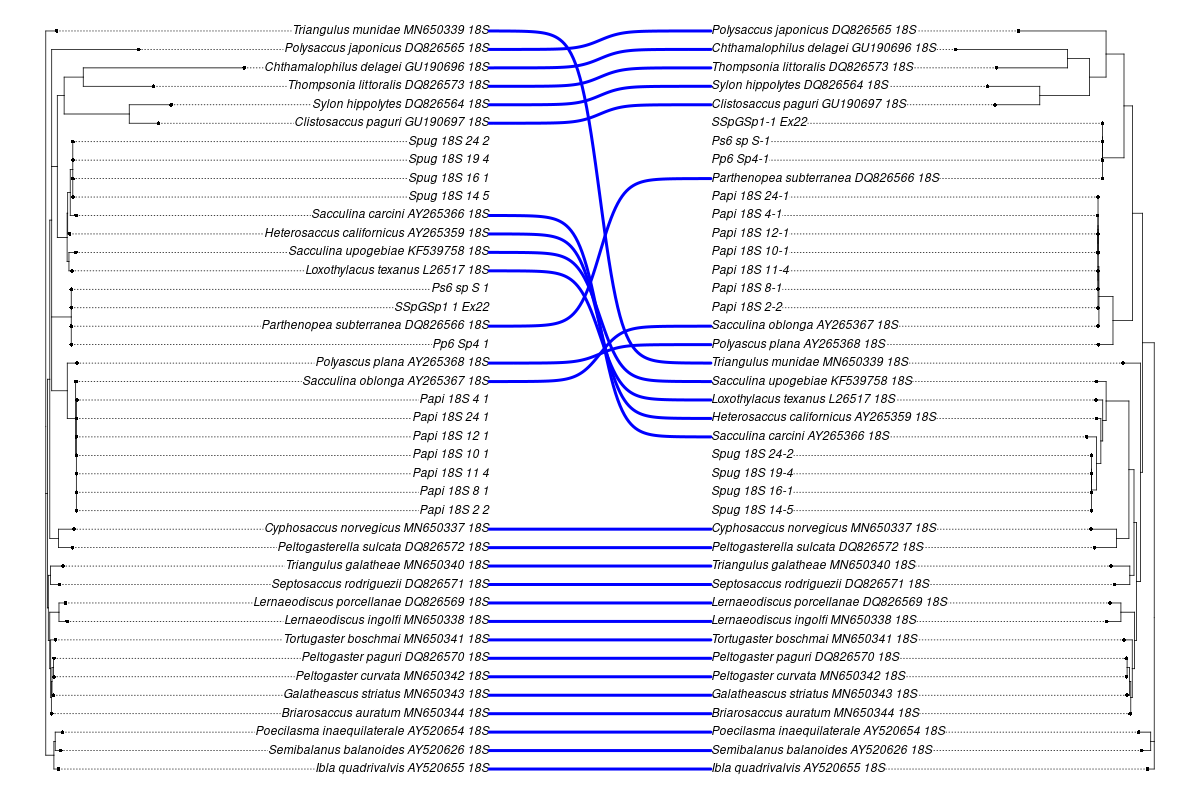
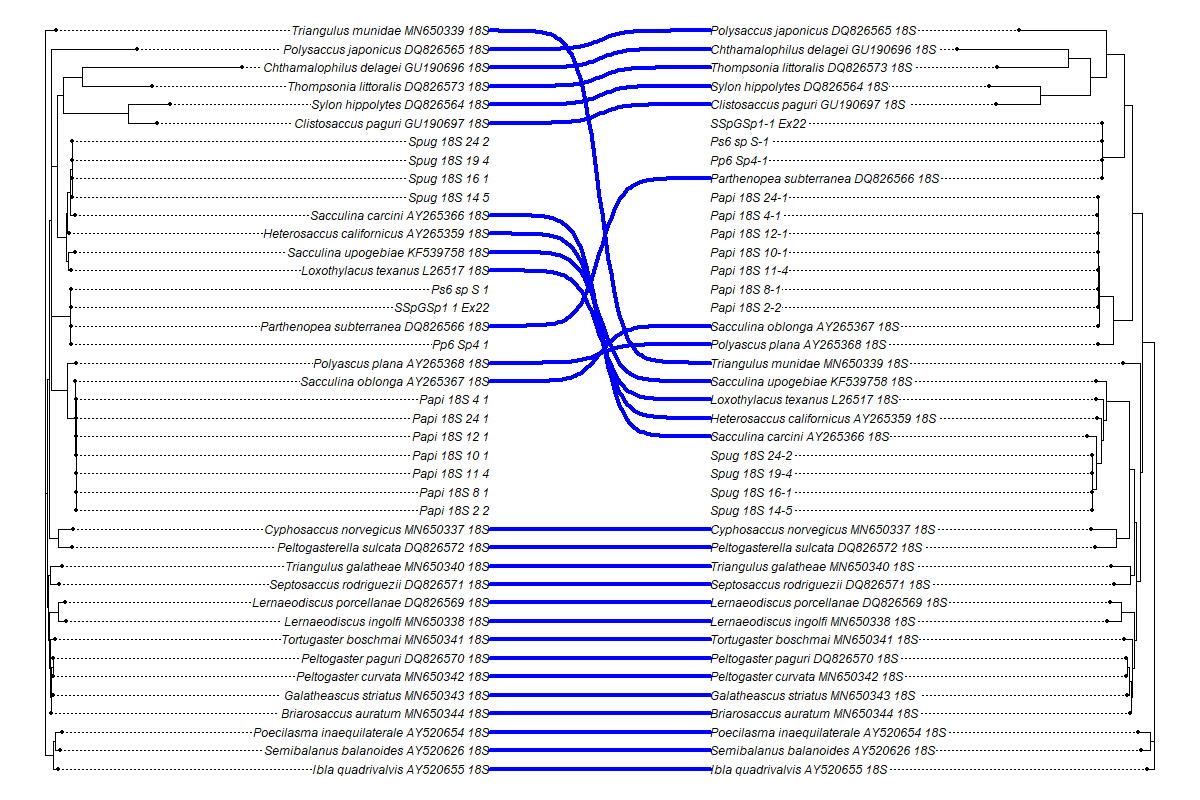
after phylogeny

diff --git a/lectures.html b/lectures.html
@@ -55,7 +55,7 @@
 </style>
 <style type="text/css" data-origin="pandoc">
 pre > code.sourceCode { white-space: pre; position: relative; }
-pre > code.sourceCode > span { display: inline-block; line-height: 1.25; }
+pre > code.sourceCode > span { line-height: 1.25; }
 pre > code.sourceCode > span:empty { height: 1.2em; }
 .sourceCode { overflow: visible; }
 code.sourceCode > span { color: inherit; text-decoration: inherit; }
@@ -66,7 +66,7 @@ div.sourceCode { overflow: auto; }
 }
 @media print {
 pre > code.sourceCode { white-space: pre-wrap; }
-pre > code.sourceCode > span { text-indent: -5em; padding-left: 5em; }
+pre > code.sourceCode > span { display: inline-block; text-indent: -5em; padding-left: 5em; }
 }
 pre.numberSource code
   { counter-reset: source-line 0; }
@@ -870,8 +870,8 @@ class="section level3">
 <h3>11.1 Филогенетический анализ в R: визуализация деревьев</h3>
 <div class="sourceCode" id="cb11"><pre class="sourceCode r"><code class="sourceCode r"><span id="cb11-1"><a href="#cb11-1" tabindex="-1"></a><span class="fu">install.packages</span>(<span class="fu">c</span>(<span class="st">&quot;seqinr&quot;</span>, <span class="st">&quot;adegenet&quot;</span>, <span class="st">&quot;phangorn&quot;</span>, <span class="st">&quot;BiocManager&quot;</span>, <span class="st">&quot;ggpubr&quot;</span>, <span class="st">&quot;phytools&quot;</span>))</span>
 <span id="cb11-2"><a href="#cb11-2" tabindex="-1"></a>BiocManager<span class="sc">::</span><span class="fu">install</span>(<span class="fu">c</span>(<span class="st">&quot;treeio&quot;</span>, <span class="st">&quot;ggtree&quot;</span>))</span></code></pre></div>
-<!-- - Презентация [html](13_Phylogeny.html) -->
 <ul>
+<li>Презентация <a href="13_Phylogeny.html">html</a></li>
 <li>Код <a href="13_Phylogeny_code.R">13_Phylogeny_code.R</a></li>
 <li>Данные:
 <ul>
